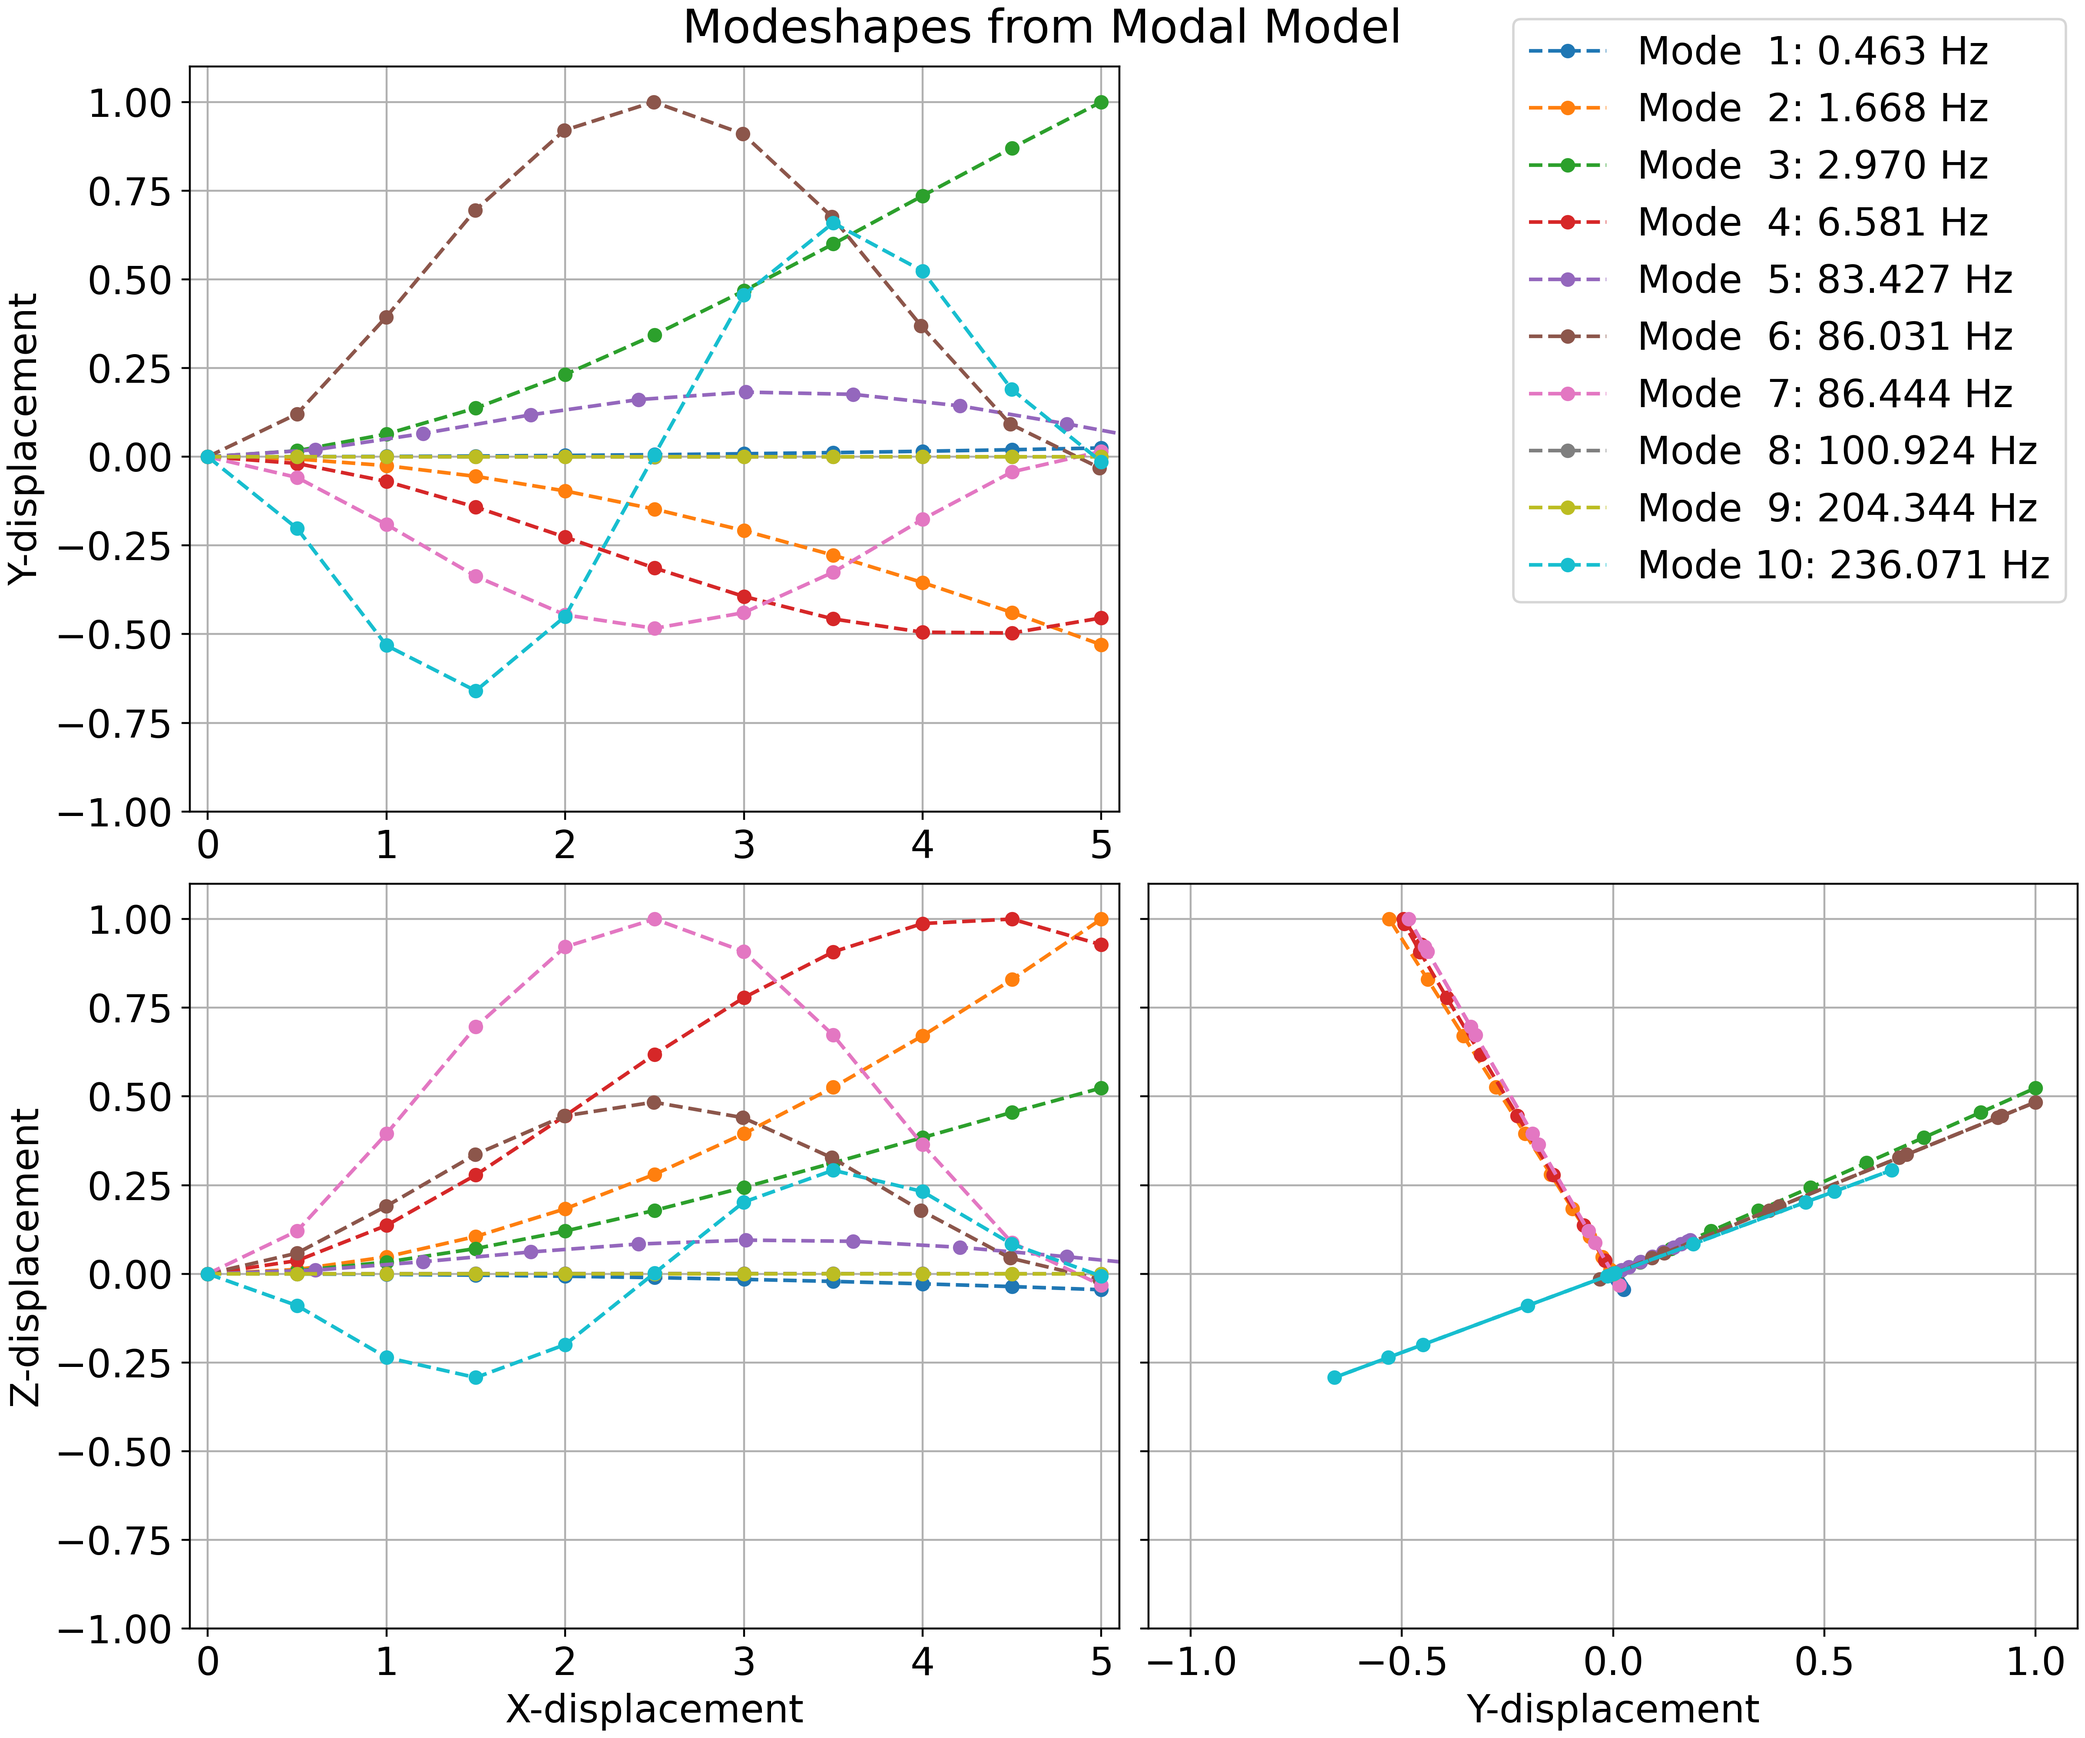
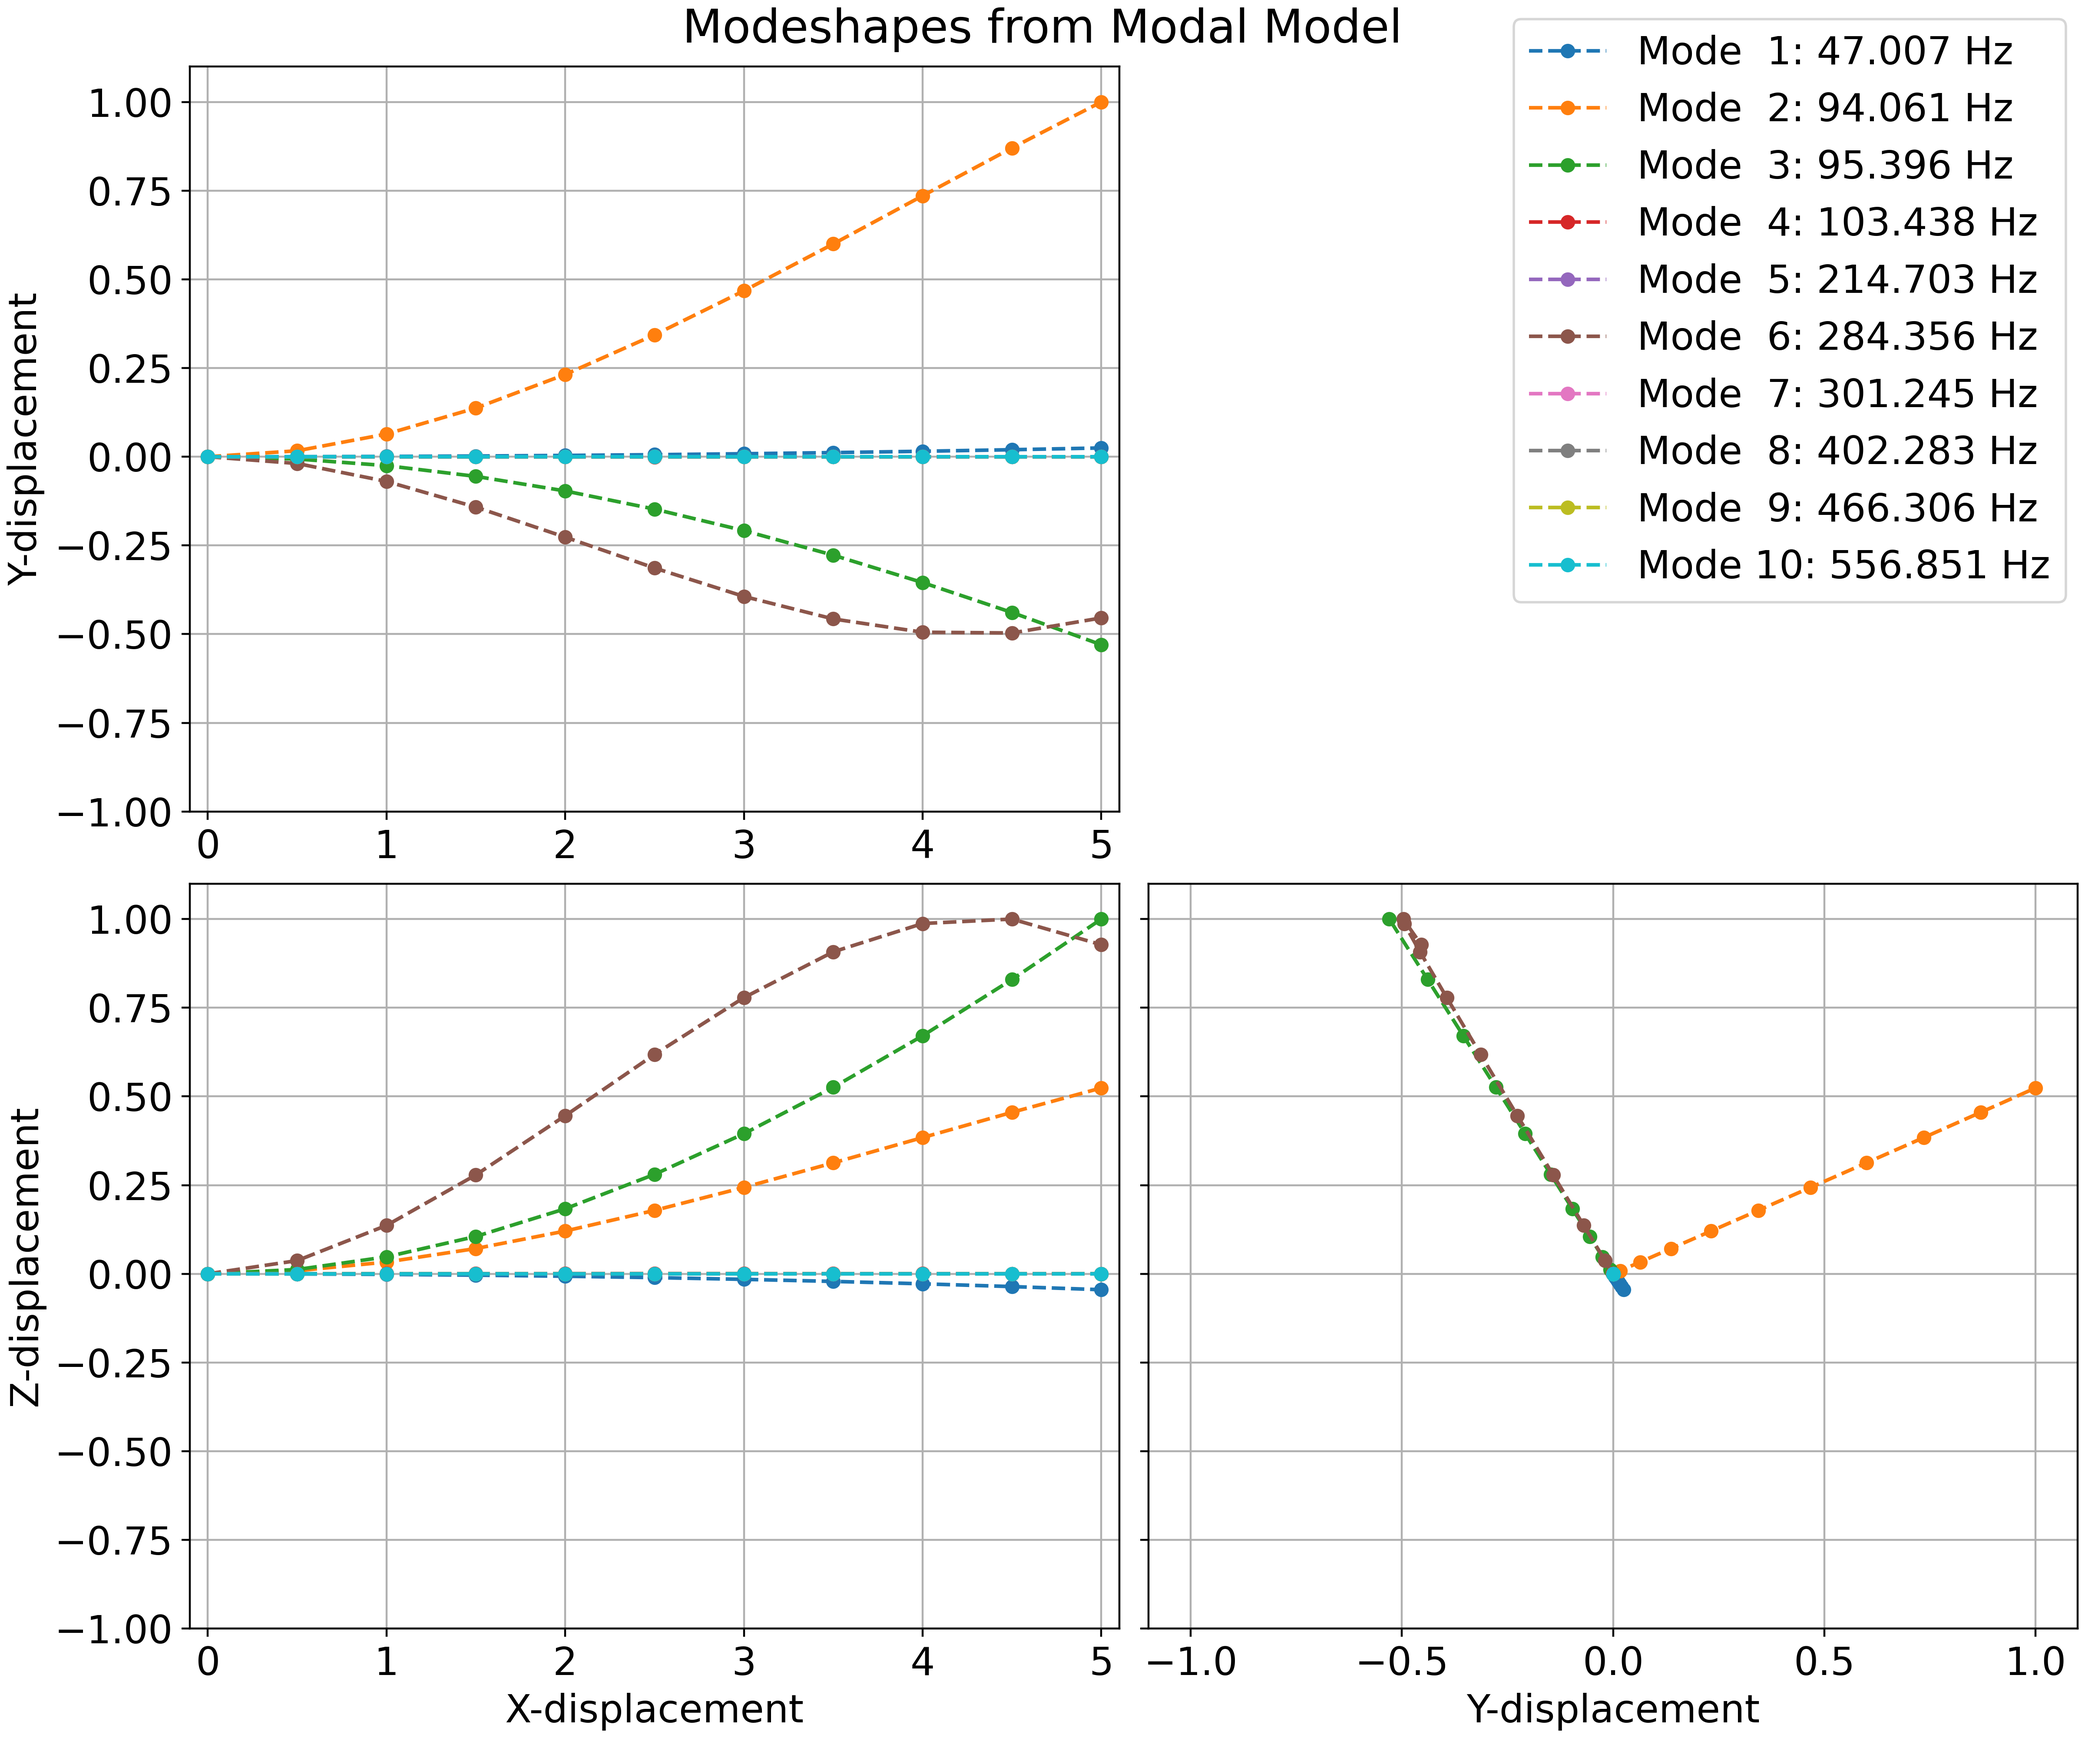
Experimenting with mass_norm changes

diff --git a/reports/problem1/n2.html b/reports/problem1/n2.html
@@ -3257,7 +3257,7 @@ return _;
 </div>
 
 <script type="text/javascript">
[2 lines of base64/hex data omitted]
 </script>
 
 <script type="text/javascript">

diff --git a/eigenvectors_mass_norm.py b/eigenvectors_mass_norm.py
@@ -16,14 +16,36 @@ class EigenvecsMassNorm(om.ExplicitComponent):
 
         self.add_output('Q_mass_norm', val=np.zeros((nDOF_r, nDOF_r)))
 
+    def setup_partials(self):
+        self.declare_partials('Q_mass_norm','Mr_glob')
+        self.declare_partials('Q_mass_norm','Q_raw')
+        
     def compute(self, inputs, outputs):
         nDOF = self.nodal_data['nDOF_r']
         Q = inputs['Q_raw']
         M = inputs['Mr_glob']
+        Q_norm = np.zeros_like(Q)
                 
-        for j in range(M.shape[1]):
+        for j in range(nDOF):
             q_j = Q[:,j]
             modalmass_j = np.dot(q_j.T,M).dot(q_j)
-            Q[:,j]= Q[:,j]/np.sqrt(modalmass_j)
+            Q_norm[:,j]= Q[:,j]/np.sqrt(modalmass_j)
+        
+        Q = Q_norm
+        Q_norm = np.zeros_like(Q)
 
-        outputs['Q_mass_norm'] = Q
+        for j in range(nDOF):
+            q_j = Q[:,j]
+            iMax = np.argmax(np.abs(q_j))
+            scale = q_j[iMax] # not using abs to normalize to "1" and not "+/-1"
+            Q_norm[:,j]= Q[:,j]/scale
+
+        outputs['Q_mass_norm'] = Q_norm
+
+    def compute_partials(self, inputs, partials, discrete_inputs=None):
+        nDOF = self.nodal_data['nDOF_r']
+        Q = inputs['Q_raw']
+        M = inputs['Mr_glob']
+
+        partials['Q_mass_norm', 'Mr_glob'] = np.zeros(((nDOF*nDOF),(nDOF*nDOF)))
+        partials['Q_mass_norm', 'Q_raw'] = np.zeros(((nDOF*nDOF),(nDOF*nDOF)))

diff --git a/partials_check.py b/partials_check.py
@@ -95,12 +95,12 @@ prob.setup(derivatives=True, force_alloc_complex=True)
 prob.set_solver_print(level=1)
 prob.run_model()
 
-comp_to_check = 'cantilever.fem_group.modeshape_M_inv'
+comp_to_check = 'cantilever.fem_group.eigenvectors_mass_norm'
 apart_tol = 1.e-5
 rpart_tol = 1.e-6
 
 # check_partials_data = prob.check_partials(method='fd', form='central', abs_err_tol=apart_tol, rel_err_tol=rpart_tol, step_calc='rel_avg', step=1e-8, show_only_incorrect=True, compact_print=True)
-# check_partials_data = prob.check_partials(method='fd',form='forward', includes=comp_to_check, step_calc='rel_avg', step=1e-8, show_only_incorrect=False, compact_print=True)
-check_partials_data = prob.check_partials(method='cs', includes=comp_to_check, show_only_incorrect=False, compact_print=True)
+check_partials_data = prob.check_partials(method='fd',form='forward', includes=comp_to_check, step_calc='rel_avg', step=1e-8, show_only_incorrect=False, compact_print=True)
+# check_partials_data = prob.check_partials(method='cs', includes=comp_to_check, show_only_incorrect=False, compact_print=True)
 
 # om.partial_deriv_plot('Ar_eig', 'Kr_glob', check_partials_data, binary=True)

diff --git a/eigenproblem_santize.py b/eigenproblem_santize.py
@@ -39,12 +39,12 @@ class EigenSantize(ExplicitComponent):
         # Export frequencies
         Lambda = np.sqrt(lambdaDiag)/(2*np.pi) # frequencies [Hz]
 
-        # --- Renormalize modes 
-        for j in range(Q.shape[1]):
-            q_j = Q[:,j]
-            iMax = np.argmax(np.abs(q_j))
-            scale = q_j[iMax] # not using abs to normalize to "1" and not "+/-1"
-            Q[:,j]= Q[:,j]/scale
+        # # --- Renormalize modes 
+        # for j in range(Q.shape[1]):
+        #     q_j = Q[:,j]
+        #     iMax = np.argmax(np.abs(q_j))
+        #     scale = q_j[iMax] # not using abs to normalize to "1" and not "+/-1"
+        #     Q[:,j]= Q[:,j]/scale
 
         # --- Add removed DOF back into eigenvectors
         Qr = Q
